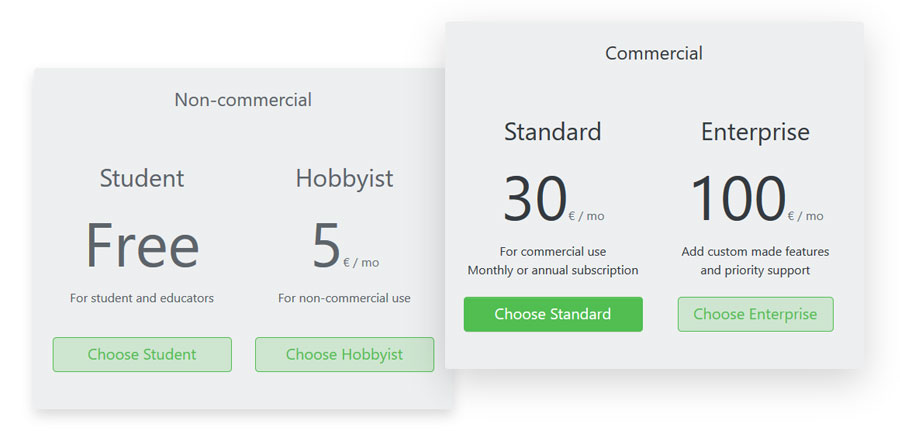
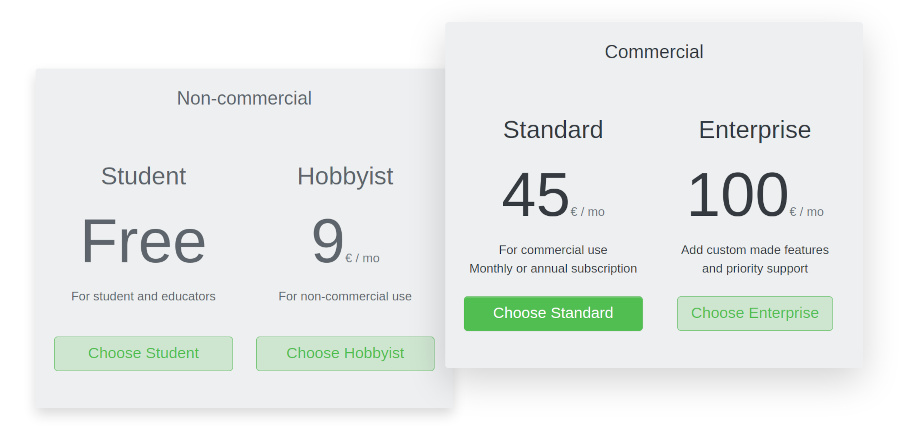
update the subscription prices here

diff --git a/markdown/payment.md b/markdown/payment.md
@@ -5,9 +5,9 @@ VR Sketch has 4 subscription plans:
 
 <img class="img-fluid my-3" src="./img/docs/payment/plans.jpg" alt="VR Sketch subscription plans"> 
 
-* Standard - 30€ / month
+* Standard - 45€ / month
 * Enterprise - 100€ / month
-* Hobbyist - 5€ / month for non-commercial use
+* Hobbyist - 9€ / month for non-commercial use
 * Student - Free for students and educators
 
 You can also choose to pay per year
